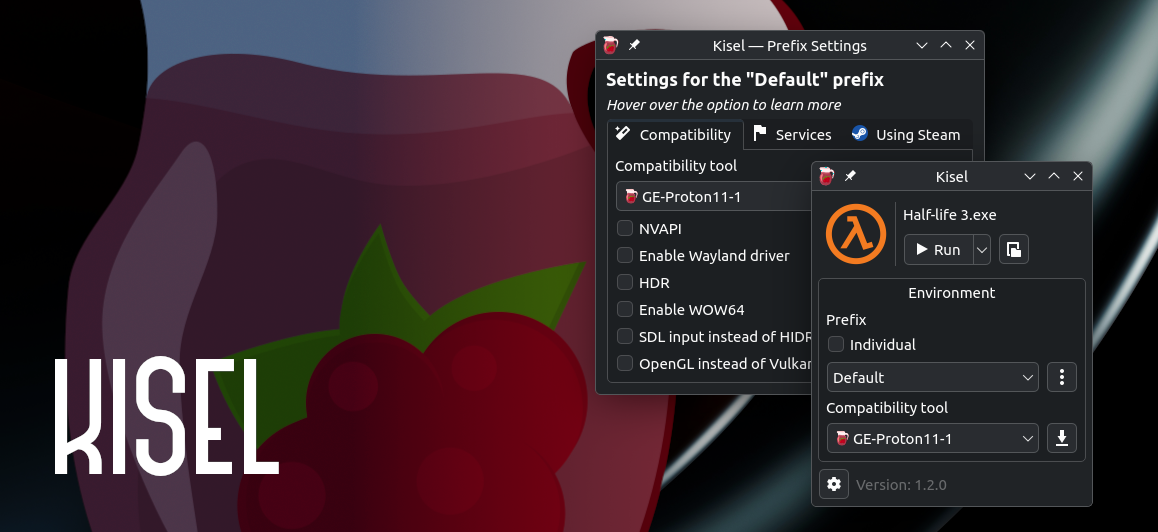
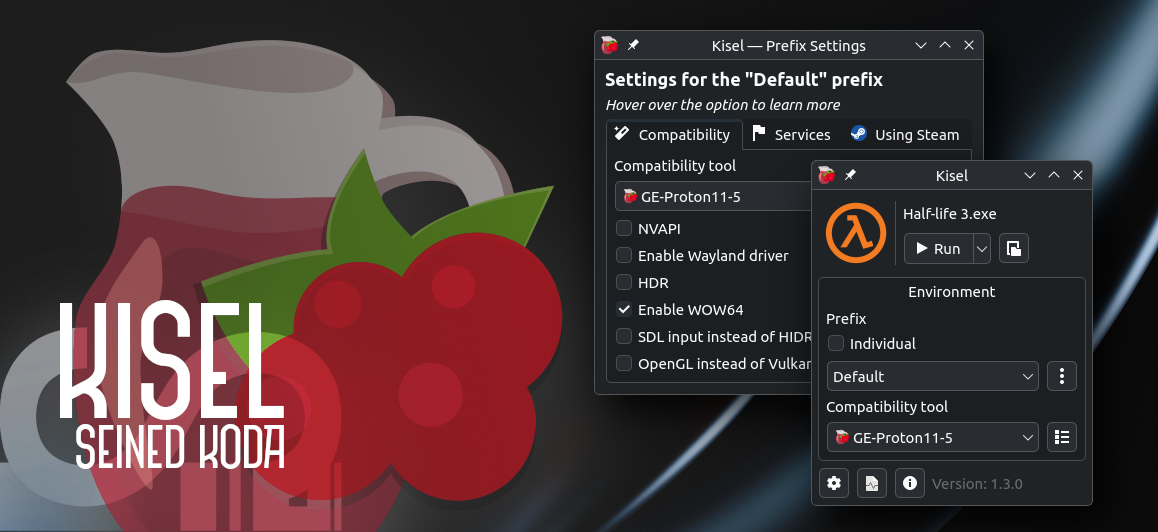
Screenshots have been updated

diff --git a/docs/README_RU.md b/docs/README_RU.md
@@ -35,6 +35,7 @@
     - Использование среды Steam
     - WOW64
     - OnlineFix
+    - И ещё некоторые...
 
 ## Установка 📦
 

diff --git a/README.md b/README.md
@@ -37,6 +37,7 @@ Efficient launch of Windows programs
     - Steam Environment
     - WOW64
     - OnlineFix
+    - And some others...
 
 ## Installation 📦
 
